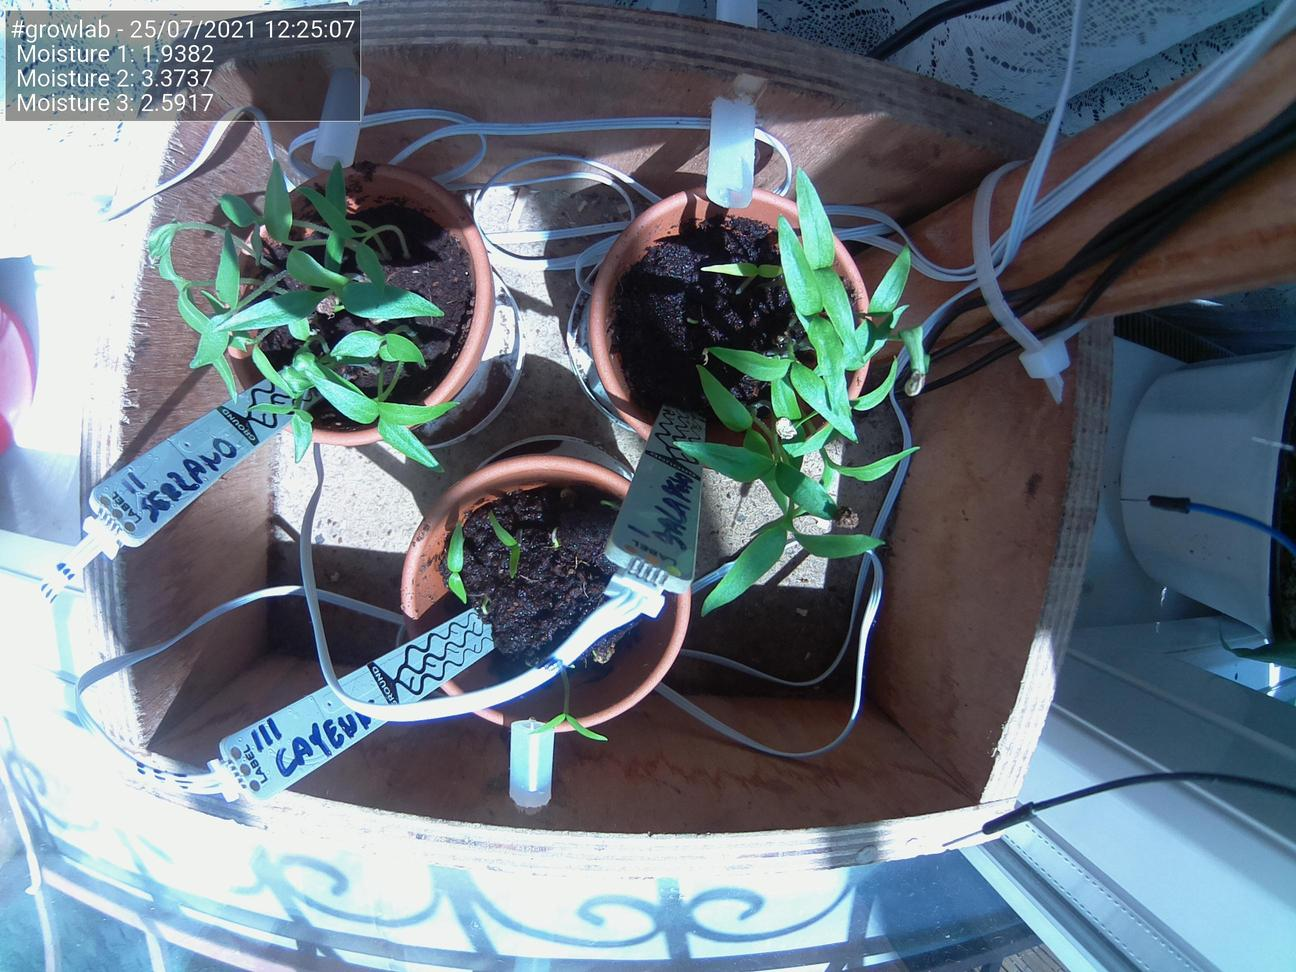
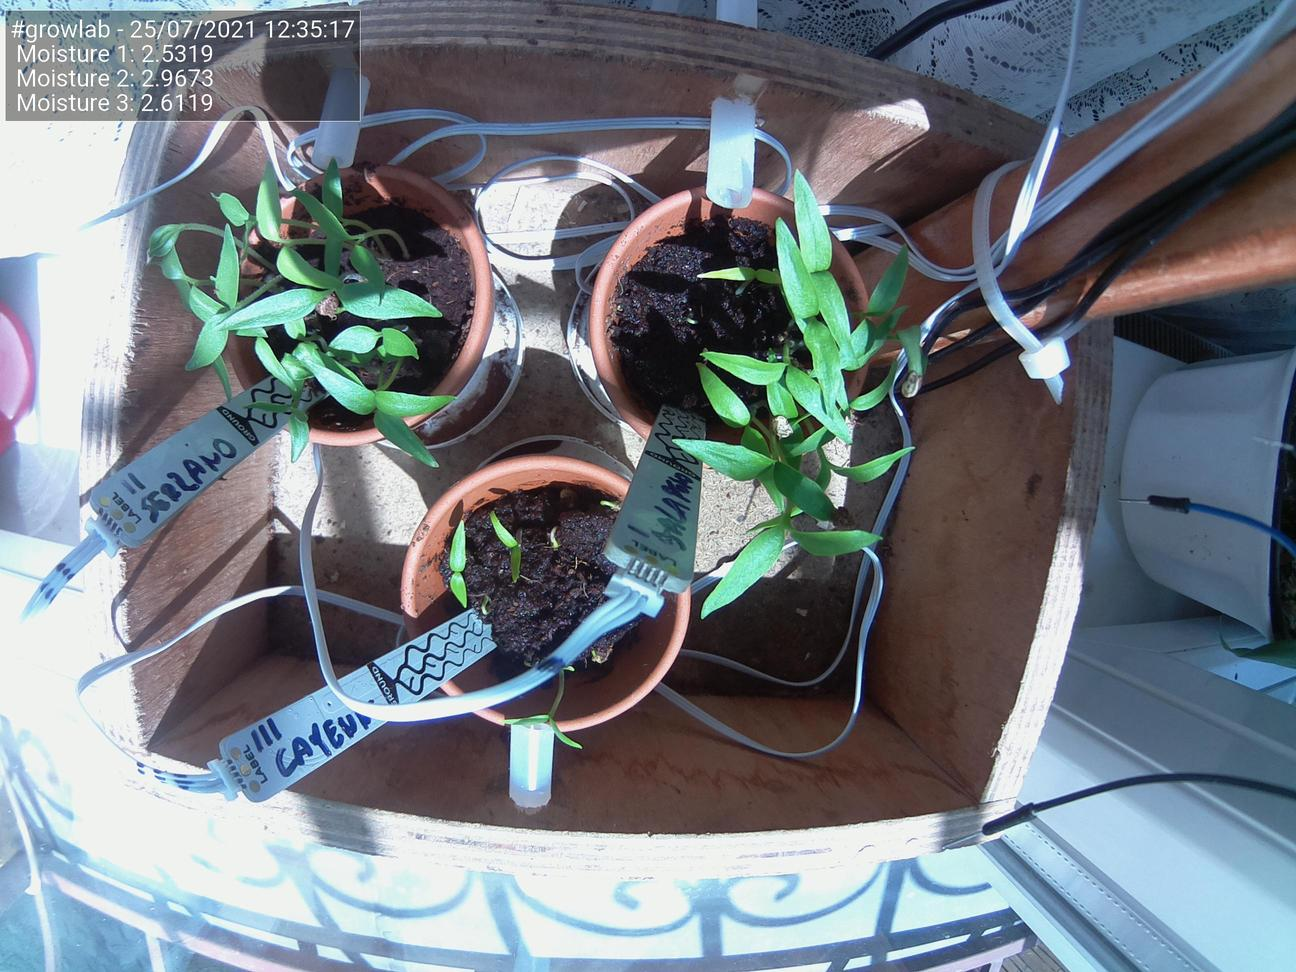
Update images at Sun 25 Jul 12:35:23 BST 2021

diff --git a/docs/index.html b/docs/index.html
@@ -51,25 +51,25 @@
                                 <td>Date</td>
                                 <td>25/07/2021</td>
                                 <td>Time</td>
-                                <td>12:25:07</td>
+                                <td>12:35:17</td>
                             </tr>
                             <tr>
                                 <td>Temperature</td>
                                 <td>N/A</td>
                                 <td>Moisture 1</td>
-                                <td>1.9382</td>
+                                <td>2.5319</td>
                             </tr>
                             <tr>
                                 <td>Humidity</td>
                                 <td>N/A</td>
                                 <td>Moisture 2</td>
-                                <td>3.3737</td>
+                                <td>2.9673</td>
                             </tr>
                             <tr>
                                 <td>Pressure</td>
                                 <td>N/A</td>
                                 <td>Moisture 3</td>
-                                <td>2.5917</td>
+                                <td>2.6119</td>
                             </tr>
                         </tbody>
                     </table>
@@ -77,7 +77,7 @@
 
                 <h5>Latest image</h5>
                 <div style="width: 85%;">
-                            <img class="figure-img img-fluid rounded" src="./preview.jpg?uid=1627212312.879603">
+                            <img class="figure-img img-fluid rounded" src="./preview.jpg?uid=1627212922.8637338">
                 </div>
             </div>
         </div>
